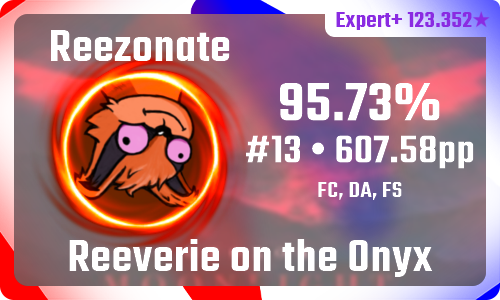
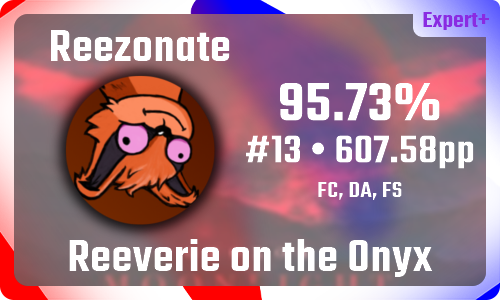
fix

Changed region(s): [[0.06, 0.15, 0.51, 0.84], [0.63, 0.03, 0.99, 0.15]]

diff --git a/EmbedGenerator/Program.cs b/EmbedGenerator/Program.cs
@@ -62,10 +62,11 @@ internal static class Program {
                 0.9573f,
                 13,
                 607.58f,
-                123.352f,
+                0.0f,
                 CoverImage,
                 AvatarImage,
-                AvatarOverlayImage,
+                // AvatarOverlayImage,
+                null,
                 80,
                 2.0f,
                 Color.Red,

diff --git a/EmbedGenerator/Utils/RoundedRectangleTexture.cs b/EmbedGenerator/Utils/RoundedRectangleTexture.cs
@@ -43,6 +43,7 @@ internal class RoundedRectangleTexture {
 
         var ratio = _maximalRadius - MathF.Sqrt(relativePos.X * relativePos.X + relativePos.Y * relativePos.Y);
         if (ratio < 0) return NoColor;
+        if (ratio > 1) ratio = 1;
         var col = _color;
         col.A *= ratio;
         return col;
